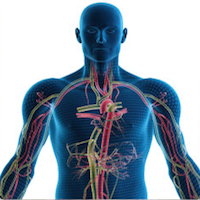
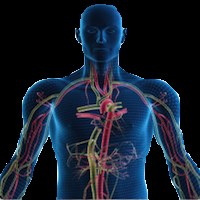
Beautified images.

diff --git a/ThisIsLife/style/main.css b/ThisIsLife/style/main.css
@@ -316,7 +316,7 @@ hr {
     z-index: 10;
     font-size: 55px; }
   .tile.tile-2 .tile-inner {
-    background: #fff url("../tile-img/nucleotide.jpg");
+    background: #fff url("../tile-img/nucleotide.png");
     box-shadow: 0 0 30px 10px rgba(243, 215, 116, 0), inset 0 0 0 1px rgba(255, 255, 255, 0); 
 	background-size: cover; }
   .tile.tile-4 .tile-inner {
@@ -344,7 +344,7 @@ hr {
       .tile.tile-128 .tile-inner {
         font-size: 25px; } }
   .tile.tile-256 .tile-inner {
-    background: #fff url("../tile-img/organ.jpg");
+    background: #fff url("../tile-img/organ.png");
     box-shadow: 0 0 30px 10px rgba(243, 215, 116, 0.31746), inset 0 0 0 1px rgba(255, 255, 255, 0.19048);
     font-size: 45px; 
 	background-size: cover; }
